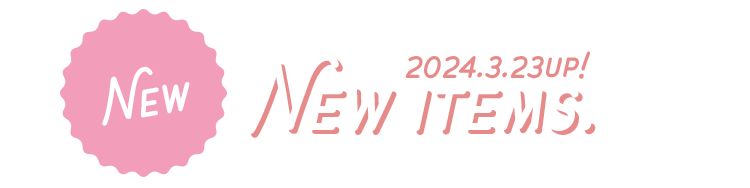
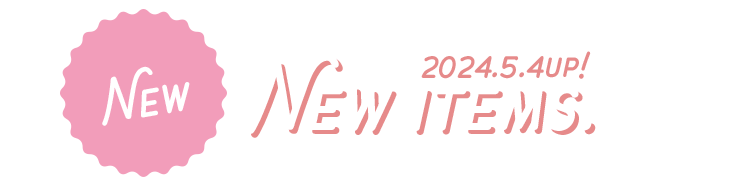
20240504up
fk bd up

Changed region(s): [[0.5213, 0.2926, 0.736, 0.4255]]

diff --git a/archives/index.html b/archives/index.html
@@ -36,7 +36,8 @@
       <form>
         <select name="menu">
           <option>こちらから選択してください</option>
-          <option value="#dt2024bd">宮舘涼太誕生祭2024 [New]</option>
+          <option value="#fk2024bd">深澤辰哉誕生祭2024 [New]</option>
+          <option value="#dt2024bd">宮舘涼太誕生祭2024</option>
           <option value="#mg2024bd">目黒蓮誕生祭2024</option>
           <option value="#all2023bd">誕生祭2023年分</option>
           <option value="#all2022bd">誕生祭2022年分</option>
@@ -62,8 +63,18 @@
 
     <div class="section">
       <div class="area_item">
+        <a id="fk2024bd" class="anchor"></a>
+        <p class="new">深澤辰哉誕生祭2024<img src="/i_and_h_mkn/img/new_title.png" alt="new"></p>
+        <div class="area_archives">
+          <a href="#" class="link_hidden"><img src="#" class="img_hidden"></a>
+          <a href="/i_and_h_mkn/img/archives/20240505_ic.png" onclick="ga('send','event','sozai','click','image', 1);"><img src="/i_and_h_mkn/img/archives/20240505_ic.png" alt="深澤辰哉誕生祭2024 アイコン"></a>
+          <a href="/i_and_h_mkn/img/archives/20240505_hd.png" onclick="ga('send','event','sozai','click','image', 1);"><img src="/i_and_h_mkn/img/archives/20240505_hd.png" alt="深澤辰哉誕生祭2024 ヘッダー"></a>
+        </div>
+      </div>
+
+      <div class="area_item">
         <a id="dt2024bd" class="anchor"></a>
-        <p class="new">宮舘涼太誕生祭2024<img src="/i_and_h_mkn/img/new_title.png" alt="new"></p>
+        <p>宮舘涼太誕生祭2024</p>
         <div class="area_archives">
           <a href="#" class="link_hidden"><img src="#" class="img_hidden"></a>
           <a href="/i_and_h_mkn/img/archives/20240325_ic.png" onclick="ga('send','event','sozai','click','image', 1);"><img src="/i_and_h_mkn/img/archives/20240325_ic.png" alt="宮舘涼太誕生祭2024 アイコン"></a>

diff --git a/new/index.html b/new/index.html
@@ -37,12 +37,12 @@
     <div class="section">
       
       <div class="area_item">
-        <a id="mg2024bd" class="anchor"></a>
-        <p class="new">宮舘涼太誕生祭2024<img src="/i_and_h_mkn/img/new_title.png" alt="new"></p>
+        <a id="dt2024bd" class="anchor"></a>
+        <p class="new">深澤辰哉誕生祭2024<img src="/i_and_h_mkn/img/new_title.png" alt="new"></p>
         <div class="area_archives">
           <a href="#" class="link_hidden"><img src="#" class="img_hidden"></a>
-          <a href="/i_and_h_mkn/img/archives/20240325_ic.png" onclick="ga('send','event','sozai','click','image', 1);"><img src="/i_and_h_mkn/img/archives/20240325_ic.png" alt="宮舘涼太誕生祭2024 アイコン"></a>
-          <a href="/i_and_h_mkn/img/archives/20240325_hd.png" onclick="ga('send','event','sozai','click','image', 1);"><img src="/i_and_h_mkn/img/archives/20240325_hd.png" alt="宮舘涼太誕生祭2024 ヘッダー"></a>
+          <a href="/i_and_h_mkn/img/archives/20240505_ic.png" onclick="ga('send','event','sozai','click','image', 1);"><img src="/i_and_h_mkn/img/archives/20240505_ic.png" alt="深澤辰哉誕生祭2024 アイコン"></a>
+          <a href="/i_and_h_mkn/img/archives/20240505_hd.png" onclick="ga('send','event','sozai','click','image', 1);"><img src="/i_and_h_mkn/img/archives/20240505_hd.png" alt="深澤辰哉誕生祭2024 ヘッダー"></a>
         </div>
       </div>
 
